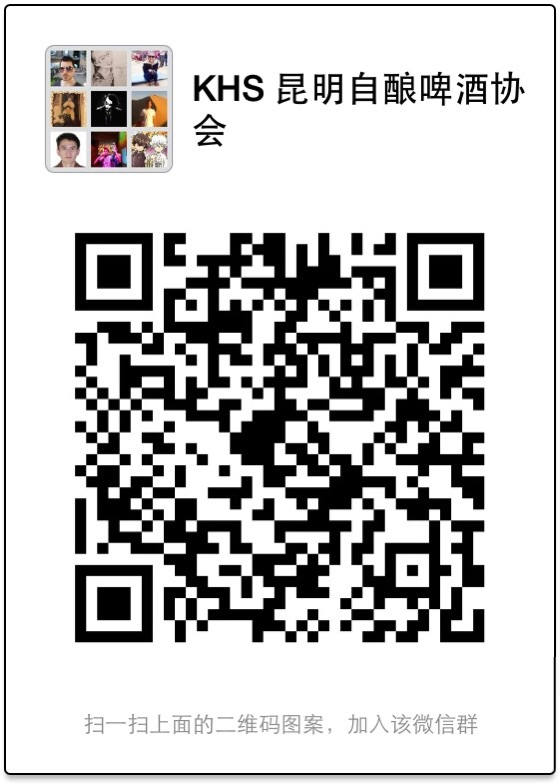
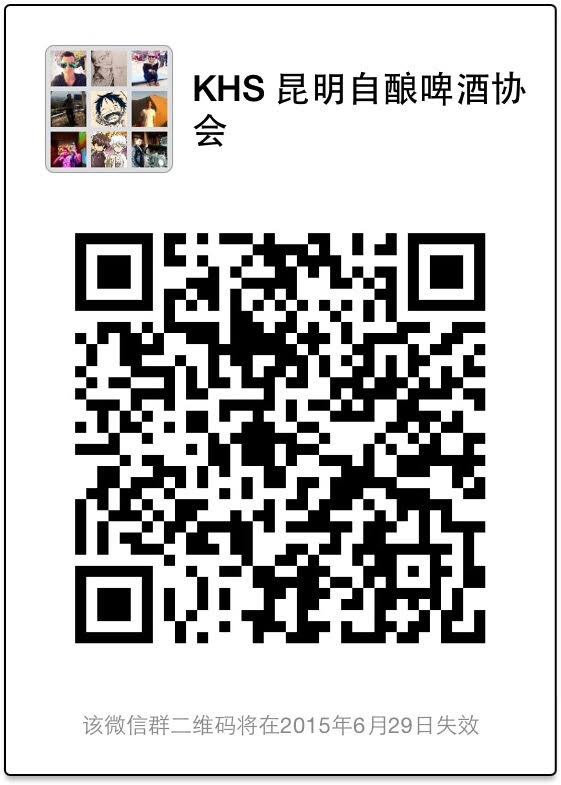
add june meetup, update QR code

diff --git a/_posts/en/2015-06-22-june-2015-meetup.md b/_posts/en/2015-06-22-june-2015-meetup.md
@@ -1,0 +1,34 @@
+---
+layout: post
+title: "June 2015 Meetup"
+quote: Belgian Strong Ales
+image: /media/2015-06-22-june-2015-meetup/cover.jpg
+video: false
+---
+
+## When:
+
+Thursday 25<sup>th</sup> June<br>
+**19:30**
+
+## Location info:
+
+Happiness Bar<br>
+59 Fuchun Jie, Kunming<br>
+13308806899<br>
+(0871) 65360818
+
+!["Map to Happiness Bar"](/media/2015-06-22-june-2015-meetup/english-map.png)
+
+## Topic
+
+Last weekend marked the 200th anniversary of the battle of waterloo, which not only reminds us that it's been 200 years since the french stopped winning wars, but also that tiny Belgium despite being the site of many an epic battle of European powers has managed to maintain a truly great beer tradition. Luckily for us here in Kunming, a good variety of Belgian beers is easy to find.
+
+We'll be discussing the unique characteristics of Belgian strong ales, as well as learning how to make them and of course tasting some fine samples!
+
+As usual, anyone is welcome to attend!
+
+> If you have any trouble finding the location or want to ask anything about the meetup, then either phone on [186-1200-9701](tel:18612009701) or join our [Wechat Group](/media/qr-code.jpg).
+
+-----
+Have any questions or suggestions? [Get in touch with us](mailto:hello@kunmingbeer.org).

diff --git a/_posts/zh/2015-06-22-liuyue-juhui.md b/_posts/zh/2015-06-22-liuyue-juhui.md
@@ -1,0 +1,33 @@
+---
+layout: post
+title: "2015年06月的聚会"
+quote: 比利时强麦
+image: /media/2015-06-22-june-2015-meetup/cover.jpg
+video: false
+permalink: /zh/2015nian-liuyue-juhui
+---
+
+## 时间:
+
+2015年06月25日（星期四）<br>
+19:30
+
+## 位置信息:
+
+幸福久居<br>
+昆明富春街59号<br>
+13308806899<br>
+(0871) 65360818
+
+## 聚会主题:
+
+上周末是滑铁卢之战200周年的纪念日，这不仅提醒我们已有200年以来的法国停止赢得战争，而且还细小的比利时尽管是欧洲列强许多史诗般的战斗现场，它仍能保持一个真正伟大的啤酒传统。幸运的是我们在昆明有好多酒吧卖多种进口比利时啤酒。
+
+我们这个月将会谈到强啤酒的特点以及学习怎么在家里酿出来，当然也会品尝一些好喝的样本！
+
+像往常一样，欢迎任何人来参加！
+
+> 你如果有任何关于聚会的问题或者找不到地方，请打电话[186-1200-9701](tel:18612009701)或加入我们的[微信群](/media/qr-code.jpg).
+
+-----
+有什么问题或意见? [联系我们](mailto:hello@kunmingbeer.org).
